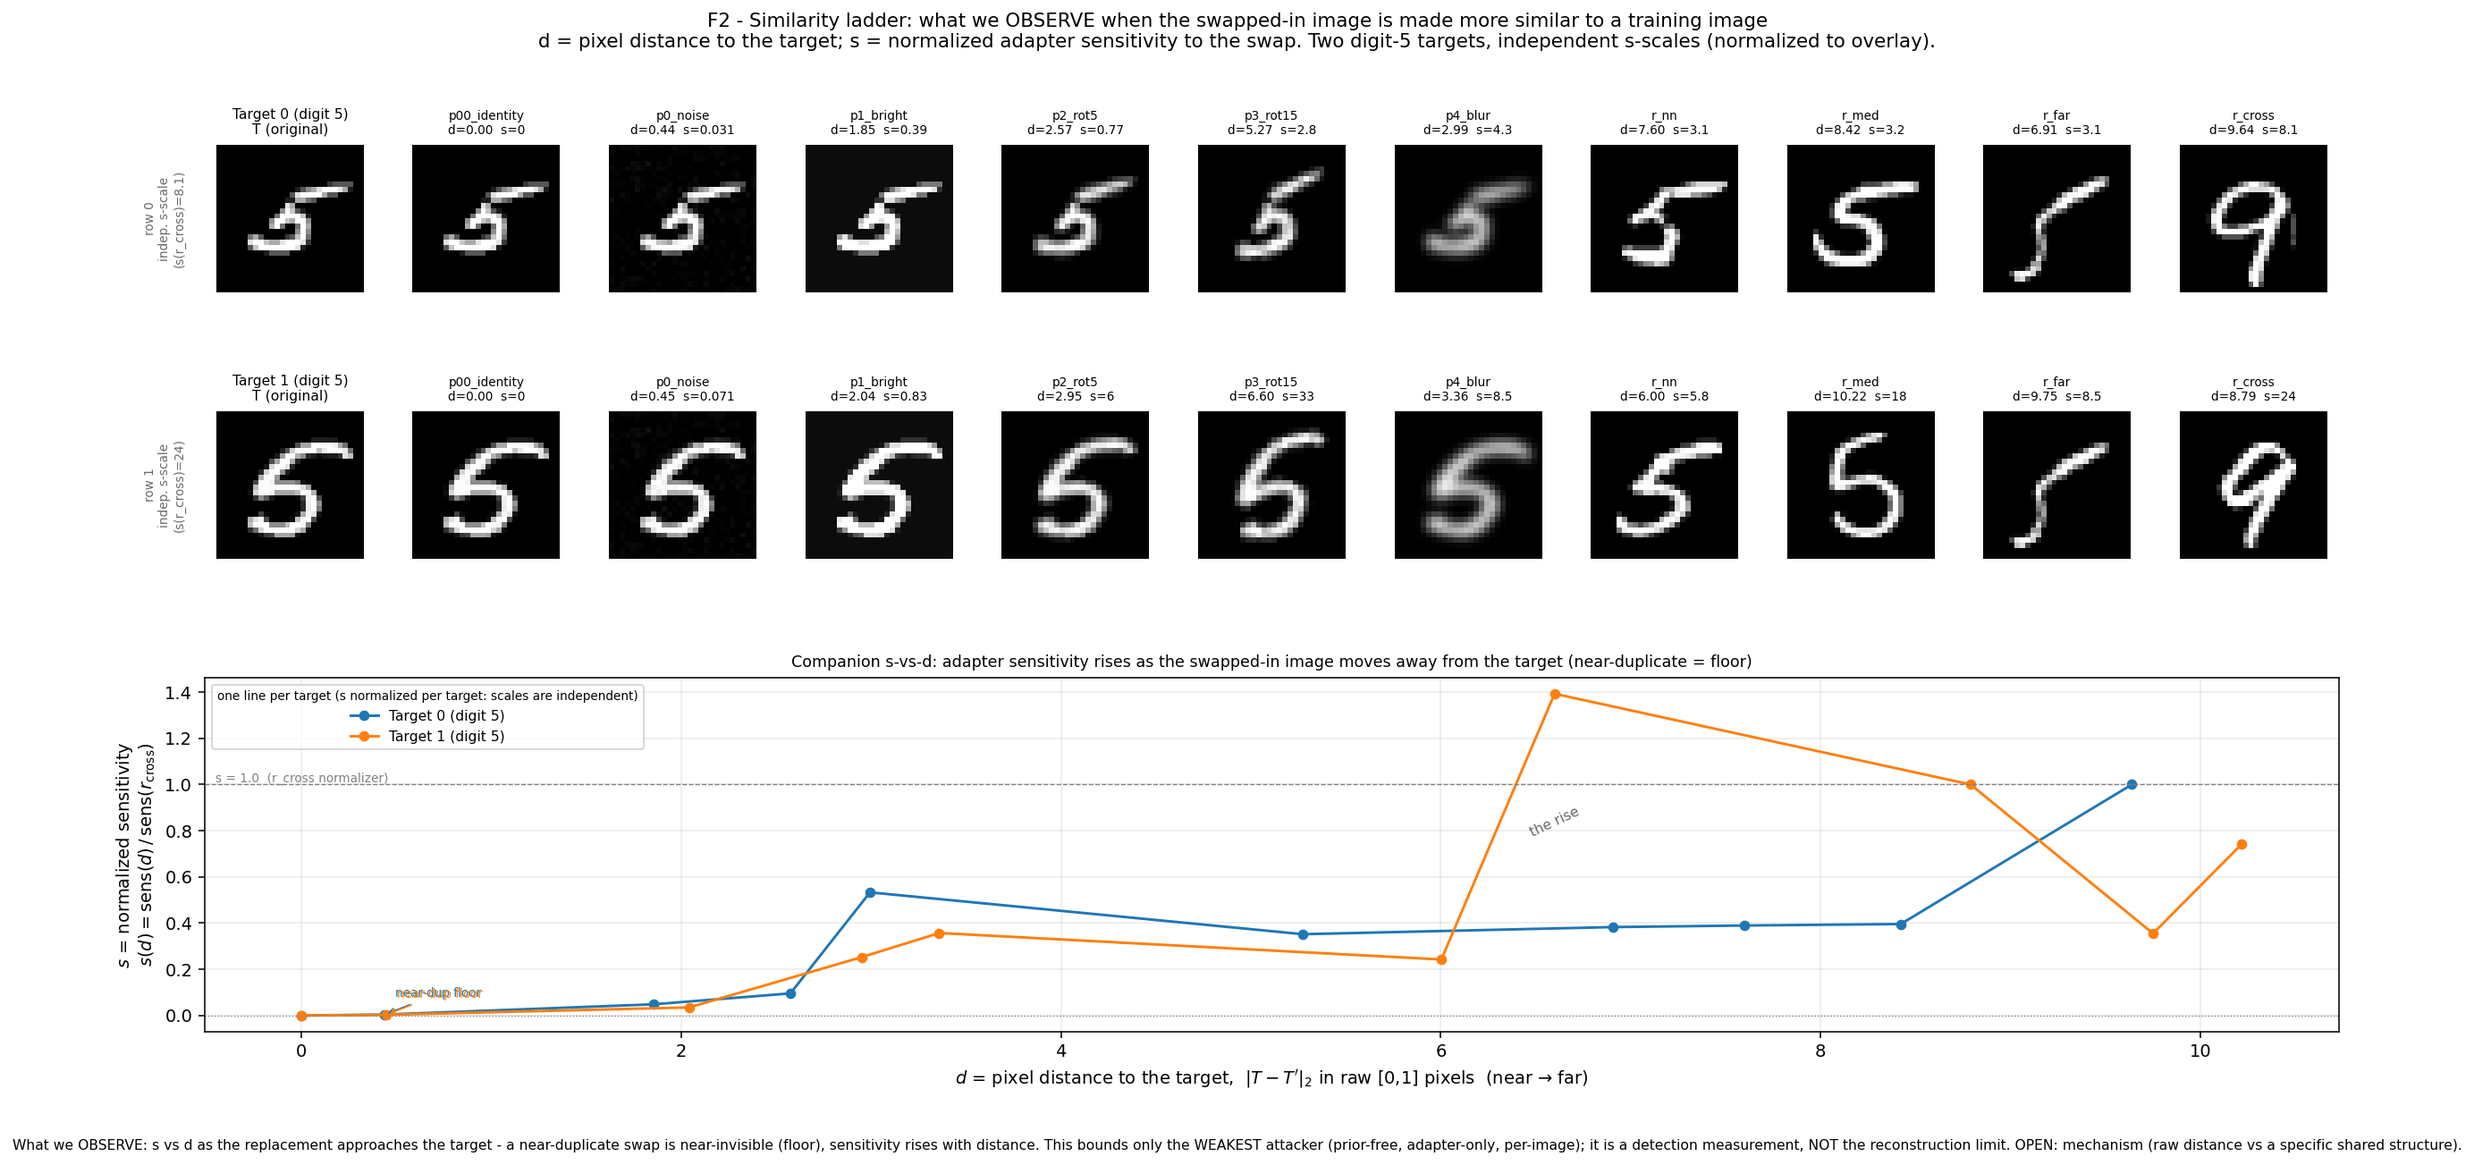
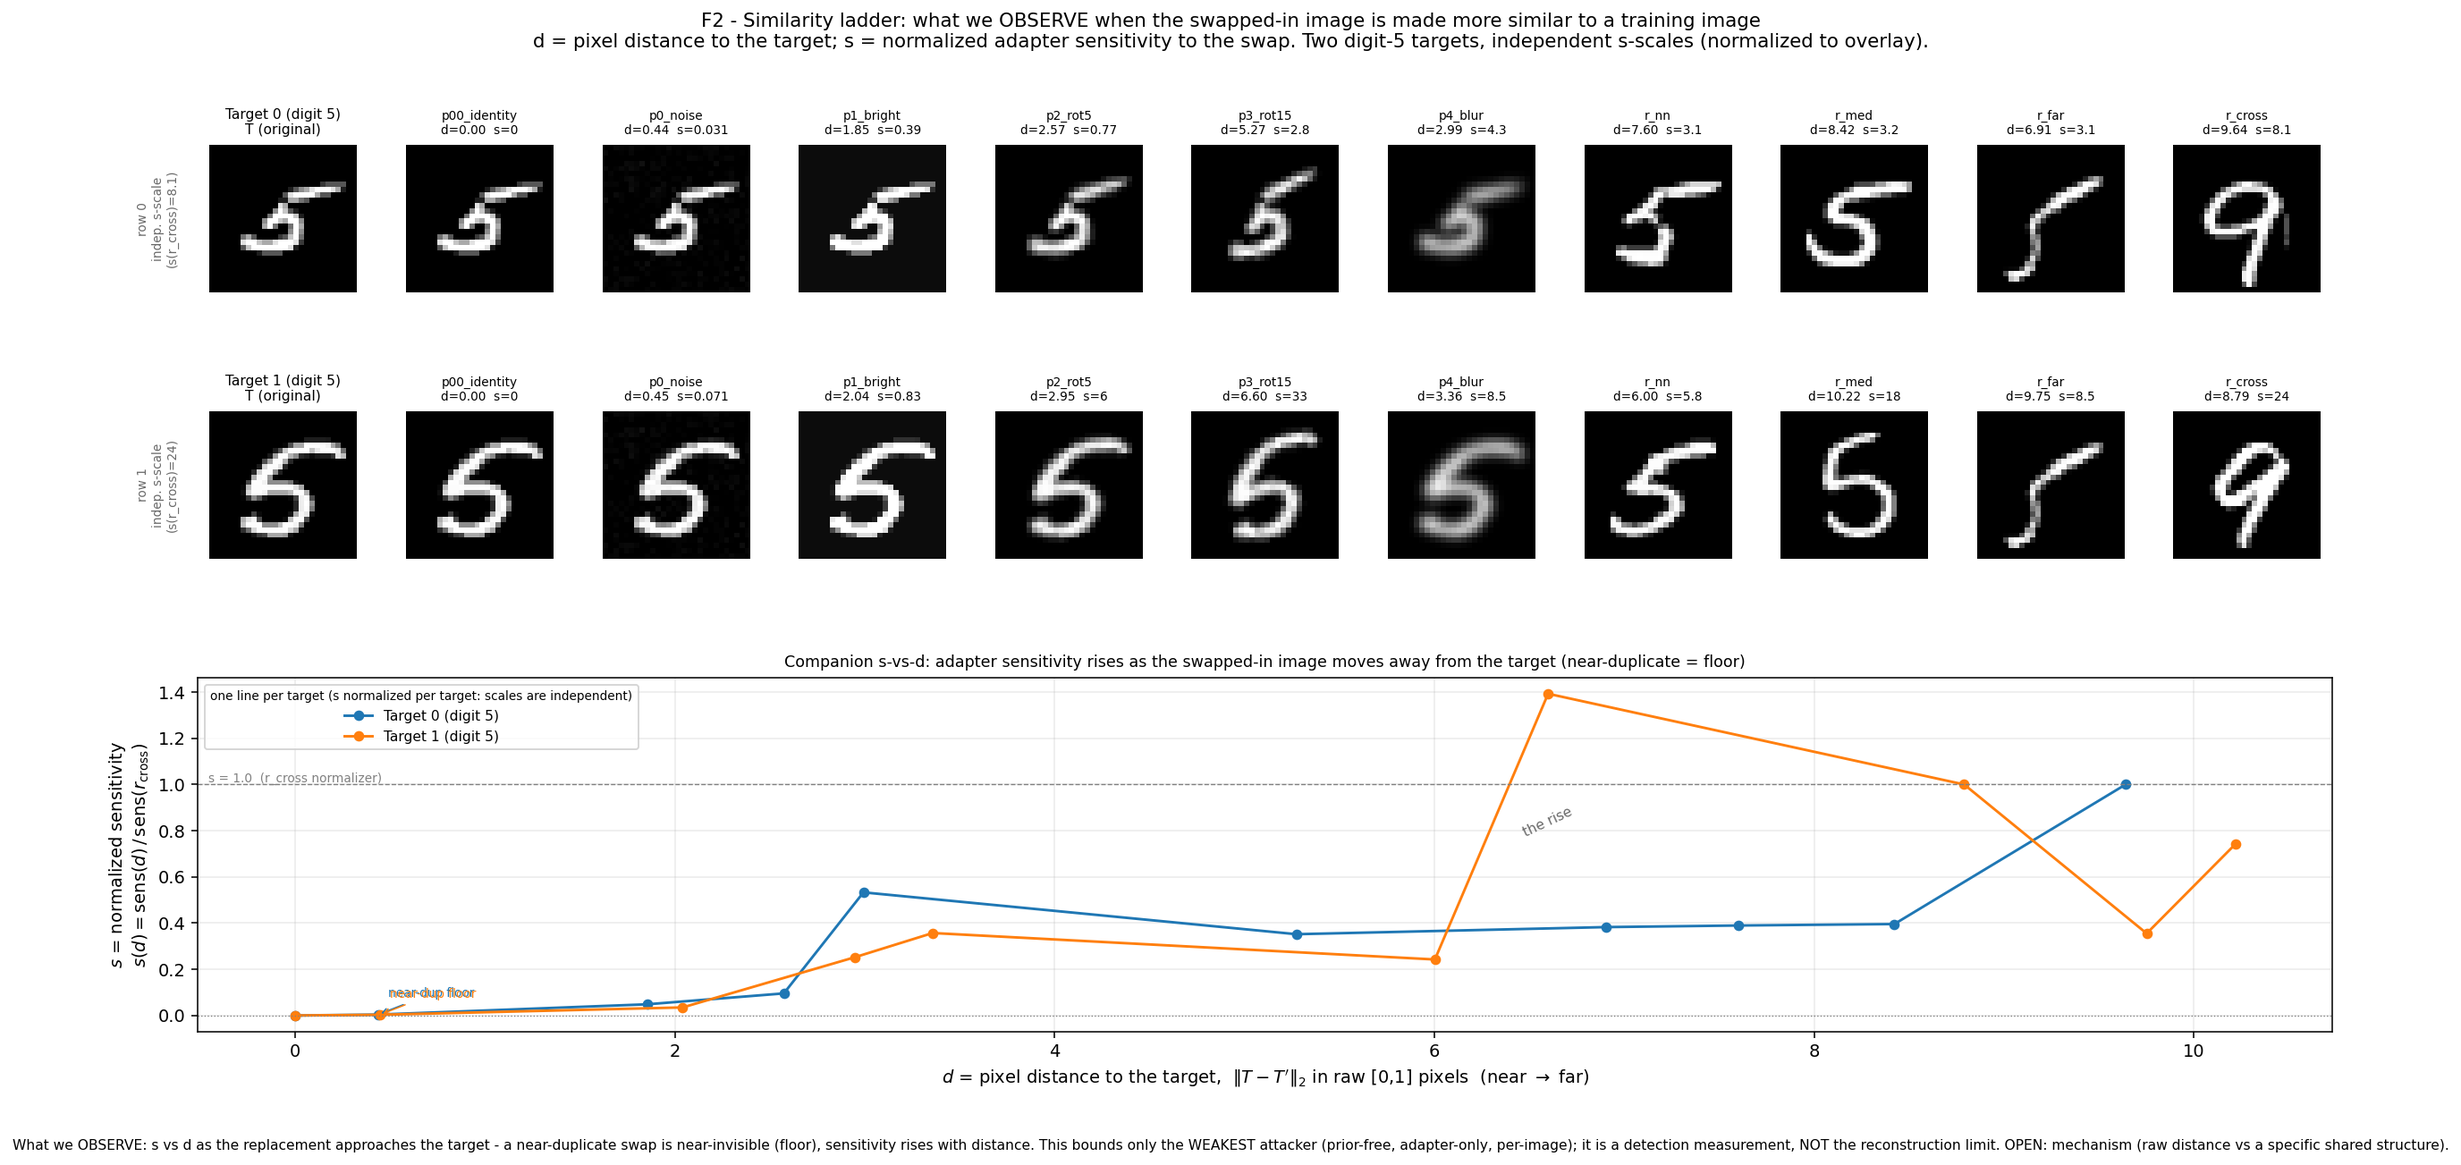
Meeting deck (2026-08-31) build tooling + re-rendered tracked figures
- scripts/build_meeting_deck.py: re-runnable assembler for the Monday meeting
  deck (fpdf2+DejaVu via md_to_pdf). All captions source-verified; LIVE auto-read
  of the valley d* and F-E depth from the fullft_valley JSONs so both self-refresh
  at n=6 with no code edit. Valley central tendency uses the scale-invariant
  GEOMEAN for ratios (geomean 1.02 ~= median 0.86 ~= equal), not the Jensen-biased
  arithmetic mean that spuriously inverted the 4/6 narrower-count majority.
- Updated tracked figures: f2 similarity ladder + f3 margin (deck F-A/F-B),
  gradient_bridge phase2 e2e, jacobian spectra.

diff --git a/scripts/build_meeting_deck.py b/scripts/build_meeting_deck.py
@@ -1,0 +1,273 @@
+"""Assemble the consolidated Monday-meeting deck (2026-08-31) into one PDF.
+
+Re-runnable: figures are embedded BY PATH, so re-running after any figure is
+re-rendered (valley n=6 scale-up 695782, crux panels 390026/392821) refreshes
+the deck automatically. Captions are drawn tight from notes/meeting_prep_2026-08-31.md
+and hold the swarm posture: OBSERVE-don't-conclude, weakest-attacker-scoped,
+positive discoveries + clean rejections-with-mechanism, NO pass/fail-baseline numbers.
+
+Usage:  python scripts/build_meeting_deck.py
+Output: notes/meeting_deck_2026-08-31.pdf   (+ prints present-vs-placeholder per figure)
+
+Uses the project's only working PDF toolchain (fpdf2 + DejaVu via scripts/md_to_pdf.py).
+No GPU / no bsub.
+"""
+import os
+import sys
+
+HERE = os.path.dirname(os.path.abspath(__file__))
+ROOT = os.path.dirname(HERE)
+sys.path.insert(0, HERE)
+from md_to_pdf import build  # noqa: E402
+
+OUT_PDF = os.path.join(ROOT, "notes", "meeting_deck_2026-08-31.pdf")
+TMP_MD = os.path.join(
+    os.environ.get("TMPDIR", "/tmp"), "meeting_deck_2026-08-31.md"
+)
+
+# ---- summary page -----------------------------------------------------------
+SUMMARY = r"""# Leakage characterization — meeting deck (2026-08-31)
+
+*Early exploratory research: we OBSERVE, we don't conclude. Every number below bounds only the
+WEAKEST attacker (prior-free, adapter-only, per-image); priors / known-recipe inversion / structural
+leakage go beyond it. Small-n and caveats are stated, not buried.*
+
+## The one-paragraph story
+Using a validated instrument (whitened Mahalanobis sensitivity, proven unbiased) we characterize how
+LoRA fine-tuning records its training images.
+
+- **(1) WHO leaks is predictable from the PUBLIC base model.** Per-image exposure tracks the base
+  gradient g0 — and that predictor *transfers* to full fine-tuning.
+- **(2) The adapter records the CONCEPT, not the instance.** Near-duplicate images are interchangeable
+  to it.
+- **(3) New parameterization result (n=6).** Full fine-tuning records ~5× more signal per image than a
+  rank-8 adapter (descriptive), but at ≈ the same per-image resolution: the dial is target-dependent
+  (full narrower on 4/6, 2 flip; geomean 1.02 ≈ median 0.86 ≈ equal), the noise-free Jacobian reads
+  equal, the SGD check diverges — more signal clearly, finer resolution NOT established (the n=2
+  "narrower" hint reflected 2 targets; 2 others flip at n=6).
+- **(4) That extra signal lives in the first (pixel-carrying) layer.**
+- **(5) We already recover recognizable images** in favorable (full-gradient) settings; a robust
+  adapter-only inversion is the immediate next step.
+
+## Most interesting, ranked for the talk
+- **F-0** positive reconstructions — open here: recognizable faces / rose; robust inversion = next weeks.
+- **F-F** activation crux — supervisor's OWN axis + a robust positive: kinked activations leak most, does
+  NOT flip under the realistic attack on MNIST (two-cluster; dataset-dependence open). Lead the science here.
+- **F-A** margin scatter — the strongest per-image positive (attacker predicts exposure from the public model).
+- **F-B** distance dial — the deepest privacy statement (concept, not instance).
+- **F-C** valley ladder — the new characterization (full = more signal; finer-resolution UNSETTLED, n=6 pending).
+- **F-D** removal + g0 transfer — WHO-leaks ties across parameterizations.
+- **F-E** depth fan — the mechanistic "which layer" answer.
+"""
+
+# ---- figure pages: (heading, path, caption) ---------------------------------
+FIGURES = [
+    (
+        "F-0. Positive reconstructions — the information IS recoverable (LEAD)",
+        "figures/meeting/positive_reconstruction_gallery.png",
+        "Full-gradient / TRUE-ΔW CEILING reconstructions across mnist / fashion / cifar10 / flowers × "
+        "N∈{2,4,10} × {gelu, softplus}, plus the ViT-scale Phase-0 result (recognizable faces / rose "
+        "structure). Across datasets, image-counts and activations the attack recovers recognizable "
+        "images — the information IS in the weight change and IS recoverable. These are the CEILING "
+        "(true ΔW), NOT the adapter-only attack; making the robust adapter-only inversion work across "
+        "the board is the next-weeks work (F-C: full FT holds ~5× more signal to invert).",
+    ),
+    (
+        "F-A. Which images leak — sensitivity vs the g0 predictor",
+        "figures/margin_at_scale/f3_margin_who_leaks.png",
+        "Per-image sensitivity vs the PUBLIC base-model gradient g0 (n=24, stratified). Which images "
+        "leak is predictable from the public model: ρ=+0.777 (p=1e-4) — real and strong, but the verdict "
+        "is INDETERMINATE (95% CI [0.53, 0.91], wider than the pre-registered ±0.15; a tercile sign-flip). "
+        "Correct reading: STRONG at low g0 (+0.88), SATURATES / reverses at high g0 (−0.12) — why it "
+        "saturates is OPEN. Survives a θ0-independent typicality control (+0.78), so it is not just image "
+        "atypicality. Caveat: n=24; g0 needs the base model + candidate image, not the base alone.",
+    ),
+    (
+        "F-B. Distance dial — the adapter records the concept, not the instance",
+        "figures/similarity_ladder/f2_similarity_ladder.png",
+        "Swap-sensitivity vs graded visual distance d; the d=0 self-swap control reads exactly 0. "
+        "The parametric near-dup rungs (blur / rotate / brightness) sit ≈ at the floor and sensitivity "
+        "climbs to the cross-digit anchor — the adapter records 'a kind of image', not the exact pixels "
+        "(the retrieved nearest-neighbor rung is moderate, s≈0.24–0.39, not floor). Privacy statement: the "
+        "attacker recovers the CONCEPT. Caveat: ~9 rungs per target, small-n; the axis is pixel-distance.",
+    ),
+    (
+        "F-C. The valley ladder — full-FT vs LoRA (new positive characterization)",
+        "figures/fullft_valley/fig_valley_ladder.png",
+        "Normalized profile s(d) for LoRA / full-single-layer / full-all-layers, with d* bars. Full "
+        "fine-tuning records ~5× more per-image signal than a rank-8 adapter (footprint, F-D, descriptive, "
+        "n=6). Whether it ALSO resolves finer is ≈EQUAL / target-dependent — the n=6 scale-up STRENGTHENS "
+        "the equal-resolution read: the finite-swap dial is TARGET-DEPENDENT (%%DSTAR%%) with no robust "
+        "narrower direction; the noise-free Jacobian reads EQUAL (P7 full≈LoRA, gap not direction-robust); "
+        "the SGD-noise check (B2) diverges. So — clearly more signal, but valley width ≈ EQUAL in central "
+        "tendency, NOT a clean 'full narrower' (the earlier n=2 'modestly narrower' was a 2-target artifact: "
+        "both n=2 targets ARE narrower, but 2 of the other 4 flip → target-dependent, no global narrowing). "
+        "Cross-gauge caveat (full-FT Δθ incl εξ vs LoRA ΔW=BA, B2-divergent) is a further reason not to "
+        "over-quote any precise ratio. Do NOT overstate either direction. Weakest-attacker scope.",
+    ),
+    (
+        "F-D. Removal cross-regime + g0 transfer (the robust one)",
+        "figures/fullft_valley/fig_removal_crossregime.png",
+        "Left: full leave-one-out footprint vs LoRA footprint per image. Right: full footprint vs g0. The "
+        "SAME images imprint most in both regimes (strong rank corr ρ≈+0.94), and the g0 predictor TRANSFERS "
+        "to full fine-tuning (ρ≈+0.83). Absolute footprint ~5× bigger in full (target-median; per-target "
+        "~3–6×) — a signal-MAGNITUDE result, not itself a resolution claim (whether full resolves finer is "
+        "the open question examined in F-C). Feeds the 'extraction, not missing-information' reading. "
+        "Caveat: n=6, exploratory; the absolute-magnitude comparison is descriptive (N→N−1 offset).",
+    ),
+    (
+        "F-E. Depth fan — the extra signal lives in the first layer",
+        "figures/fullft_valley/fig_valley_depth.png",
+        "Per-layer numerator ‖Δμ_ℓ‖ vs distance for the full network. At the near-duplicate rung the first "
+        "(pixel-carrying) layer reacts most (%%DEPTH%%), fading with depth — instance / pixel signal is "
+        "concentrated early. Directly answers how the imprint distributes across layers. Caveat: read on the "
+        "NUMERATOR (per-layer d* is denominator-confounded); values auto-read from the arm-D summary "
+        "(refresh at n=6).",
+    ),
+    (
+        "F-F. Activation crux — the supervisor's top ask (kinked activations leak most; robust on MNIST)",
+        "figures/crux/freec_ladder_ranking.png",
+        "The REALISTIC free-coefficient leakage ranking across activations at 4 weight-change rungs, oracle "
+        "overlaid (authoritative, job 392821, full 52/52; owner yoado-ed). Ordering-INDEPENDENT hard facts "
+        "first: (1) the KINKED activations (relu / leaky_relu / selu) leak MOST — kinked-mean ~5× the smooth "
+        "family at matched weight-change (ctrl_margin_norm; ~2× on ssim_norm), no smoothness-ranking needed; "
+        "(2) smoothness ANTI-correlates with leakage — Spearman(smoothness, leakage) is NEGATIVE at every "
+        "weight-change rung and STRENGTHENS with wc (≈ −0.2 → −0.8; the sign and trend are robust, the exact "
+        "value is smoothness-ordering-dependent); (3) it does NOT flip the oracle ranking on MNIST. So 'kink "
+        "leaks most' survives BOTH the coefficient mode and the wc level. Honest caveats: (a) NOT a monotonic "
+        "'smoother ⇒ less leakage' law — the sign still flips WITHIN the smooth-only subset, so it is a "
+        "two-cluster (kinked-vs-smooth) effect, not a gradient; (b) MNIST / N=2 / T=1 / n=13 activations — "
+        "exploratory; (c) the free-c 'flip' precedent was on FLOWERS, not MNIST — dataset-dependence is OPEN, "
+        "and the flowers band + feature-stability-vs-T are still pending. Supporting (exploratory, small-n): "
+        "smoothness → feature-stability ρ≈+0.85, feature-stability → fidelity ρ≈+0.94 (wide CI) — the "
+        "implicit-bias/NTK direction Gal cares about; direction-count (eff_rank) is T-driven, not "
+        "activation-driven (2 → 6.3 with T).",
+    ),
+    (
+        "(Optional) Data-latent Jacobian spectra — full vs LoRA",
+        "figures/fullft_valley/fig_jacobian_spectra.png",
+        "The noise-free method behind F-C's equal-resolution read: the data-latent Jacobian spectrum, full "
+        "vs LoRA (P7: full ≈ LoRA, the gap not direction-robust). This is the SUPPORTING leg of F-C — the "
+        "finite-swap dial (n=2, B2-divergent) is only qualitatively consistent, so treat the Jacobian as the "
+        "primary evidence, not a clean two-method agreement. Caveat: early-T behaviour noted.",
+    ),
+]
+
+NEXT_WEEKS = r"""## Next-weeks work (forward, not failure)
+
+- **Robust adapter-only inversion.** We have recognizable recoveries in favorable settings (F-0); the
+  valley result says the information IS present (~5× more signal than LoRA), so the task is *extracting*
+  it (better decoder / prior-equipped inversion), not overcoming a missing-information wall.
+- **Firm the under-powered readouts.** Margin at n=24 → more; valley dial n=2 → 6 (scale-up running).
+- **Full validation gate at scale** (spot-check ρ=0.88 done) — the behavioral-memorization tie.
+- **Activation crux** — finish the two running jobs and the fuller analysis (F-F panels c/d).
+- **Shared-transform recovery** — attempted (known-recipe ΔW-matching): honest NULL at n=8 draws —
+  rotation is suggestive (skill +0.44, mean error 12.5 vs blind 22.5, but CI [−0.15, +0.79] straddles 0),
+  blur is null (−0.26). Mechanism: the shared-transform signal is swamped by proxy-vs-private content in
+  ΔW; separating transform-from-content is the next step. (Honest-null backup slide exists if asked.)
+"""
+
+
+def load_dstar():
+    """Read the four live d* valley widths so the F-C caption never goes stale.
+
+    Written by the valley-ladder figure on every render (auto-refreshes at n=6).
+    Falls back to a scale-neutral phrase if the JSON is absent so the deck still builds.
+    """
+    import json
+    import statistics
+    import math
+    jp = os.path.join(ROOT, "results", "fullft_valley", "valley_headline_dstar.json")
+    try:
+        d = json.load(open(jp))
+        lo, fu = d["lora_A_dstar"], d["full_D_dstar"]
+        keys = [k for k in fu if k in lo]  # common targets
+        ratios = [fu[k] / lo[k] for k in keys]  # D/A: <1 => full narrower
+        n = len(keys)
+        narrower = [r for r in ratios if r < 1.0]
+        med = statistics.median(ratios)
+        # geomean is the scale-invariant central tendency for RATIOS (arithmetic
+        # mean is Jensen-biased upward and spuriously inverts the count majority)
+        geo = math.exp(sum(math.log(r) for r in ratios) / n)
+        if n <= 2:
+            s = (f"d*: full-D {fu['t0']:.2f}/{fu['t1']:.2f} vs "
+                 f"LoRA-A {lo['t0']:.2f}/{lo['t1']:.2f}")
+        else:
+            rng = f"{min(narrower):.2f}–{max(narrower):.2f}" if narrower else "—"
+            s = (f"full narrower on {len(narrower)}/{n} (D/A {rng}), "
+                 f"{n - len(narrower)} flip; geomean {geo:.2f} ≈ median {med:.2f} ≈ equal")
+        print(f"[deck] live d* read (n={n}): {s}")
+        return s
+    except Exception as e:
+        print(f"[deck] WARNING: could not read live d* ({e}); using generic phrase")
+        return "d* full-D vs LoRA-A: see valley_headline_dstar.json"
+
+
+def load_depth():
+    """Read per-layer ‖Δμ‖ at the near-dup (p0_noise) rung so the F-E line self-refreshes at n=6.
+
+    Prefers the n=6 arm-D summary when present; falls back to n=2, then to a generic phrase.
+    """
+    import json
+    import statistics
+    for fn in ("D_n6_summary.json", "D_summary.json"):
+        jp = os.path.join(ROOT, "results", "fullft_valley", fn)
+        try:
+            d = json.load(open(jp))
+            layers = ["L0", "L1", "L2"]
+            acc = {L: [] for L in layers}
+            for t in d["targets"]:
+                for pr in t["per_rung"]:
+                    if pr["rung"] == "p0_noise":
+                        for L in layers:
+                            acc[L].append(pr["readouts"][L]["dmu_norm"])
+            m = {L: statistics.mean(acc[L]) for L in layers}
+            s = f"‖Δμ‖ L0 {m['L0']:.3f} > L1 {m['L1']:.3f} > L2 {m['L2']:.3f}"
+            n = len(d["targets"])
+            print(f"[deck] live depth read ({fn}, n={n}): {s}")
+            return s
+        except Exception:
+            continue
+    print("[deck] WARNING: could not read live depth; using generic phrase")
+    return "‖Δμ‖ L0 > L1 > L2 (first layer largest)"
+
+
+def main():
+    dstar_str = load_dstar()
+    depth_str = load_depth()
+    md = [SUMMARY, ""]
+    present, placeholder = [], []
+    for heading, path, caption in FIGURES:
+        caption = caption.replace("%%DSTAR%%", dstar_str).replace("%%DEPTH%%", depth_str)
+        md.append(r"\pagebreak")
+        md.append(f"## {heading}")
+        abspath = os.path.join(ROOT, path)
+        if os.path.exists(abspath):
+            md.append(f"![{caption}]({abspath})")
+            present.append(path)
+        else:
+            md.append(f"*[figure pending — {path} not yet rendered]*")
+            md.append("")
+            md.append(caption)
+            placeholder.append(path)
+        md.append("")
+    md.append(r"\pagebreak")
+    md.append(NEXT_WEEKS)
+
+    with open(TMP_MD, "w") as f:
+        f.write("\n".join(md))
+    build(TMP_MD, OUT_PDF, title="Meeting deck 2026-08-31")
+
+    size = os.path.getsize(OUT_PDF)
+    print(f"\n[deck] {OUT_PDF}  ({size/1024:.0f} KB)")
+    print(f"[deck] figures PRESENT ({len(present)}): " + ", ".join(present))
+    if placeholder:
+        print(f"[deck] figures PLACEHOLDER ({len(placeholder)}): " + ", ".join(placeholder))
+    else:
+        print("[deck] figures PLACEHOLDER (0): none — all figures embedded")
+    if size < 50_000:
+        print("[deck] WARNING: PDF suspiciously small — check figures embedded")
+
+
+if __name__ == "__main__":
+    main()
